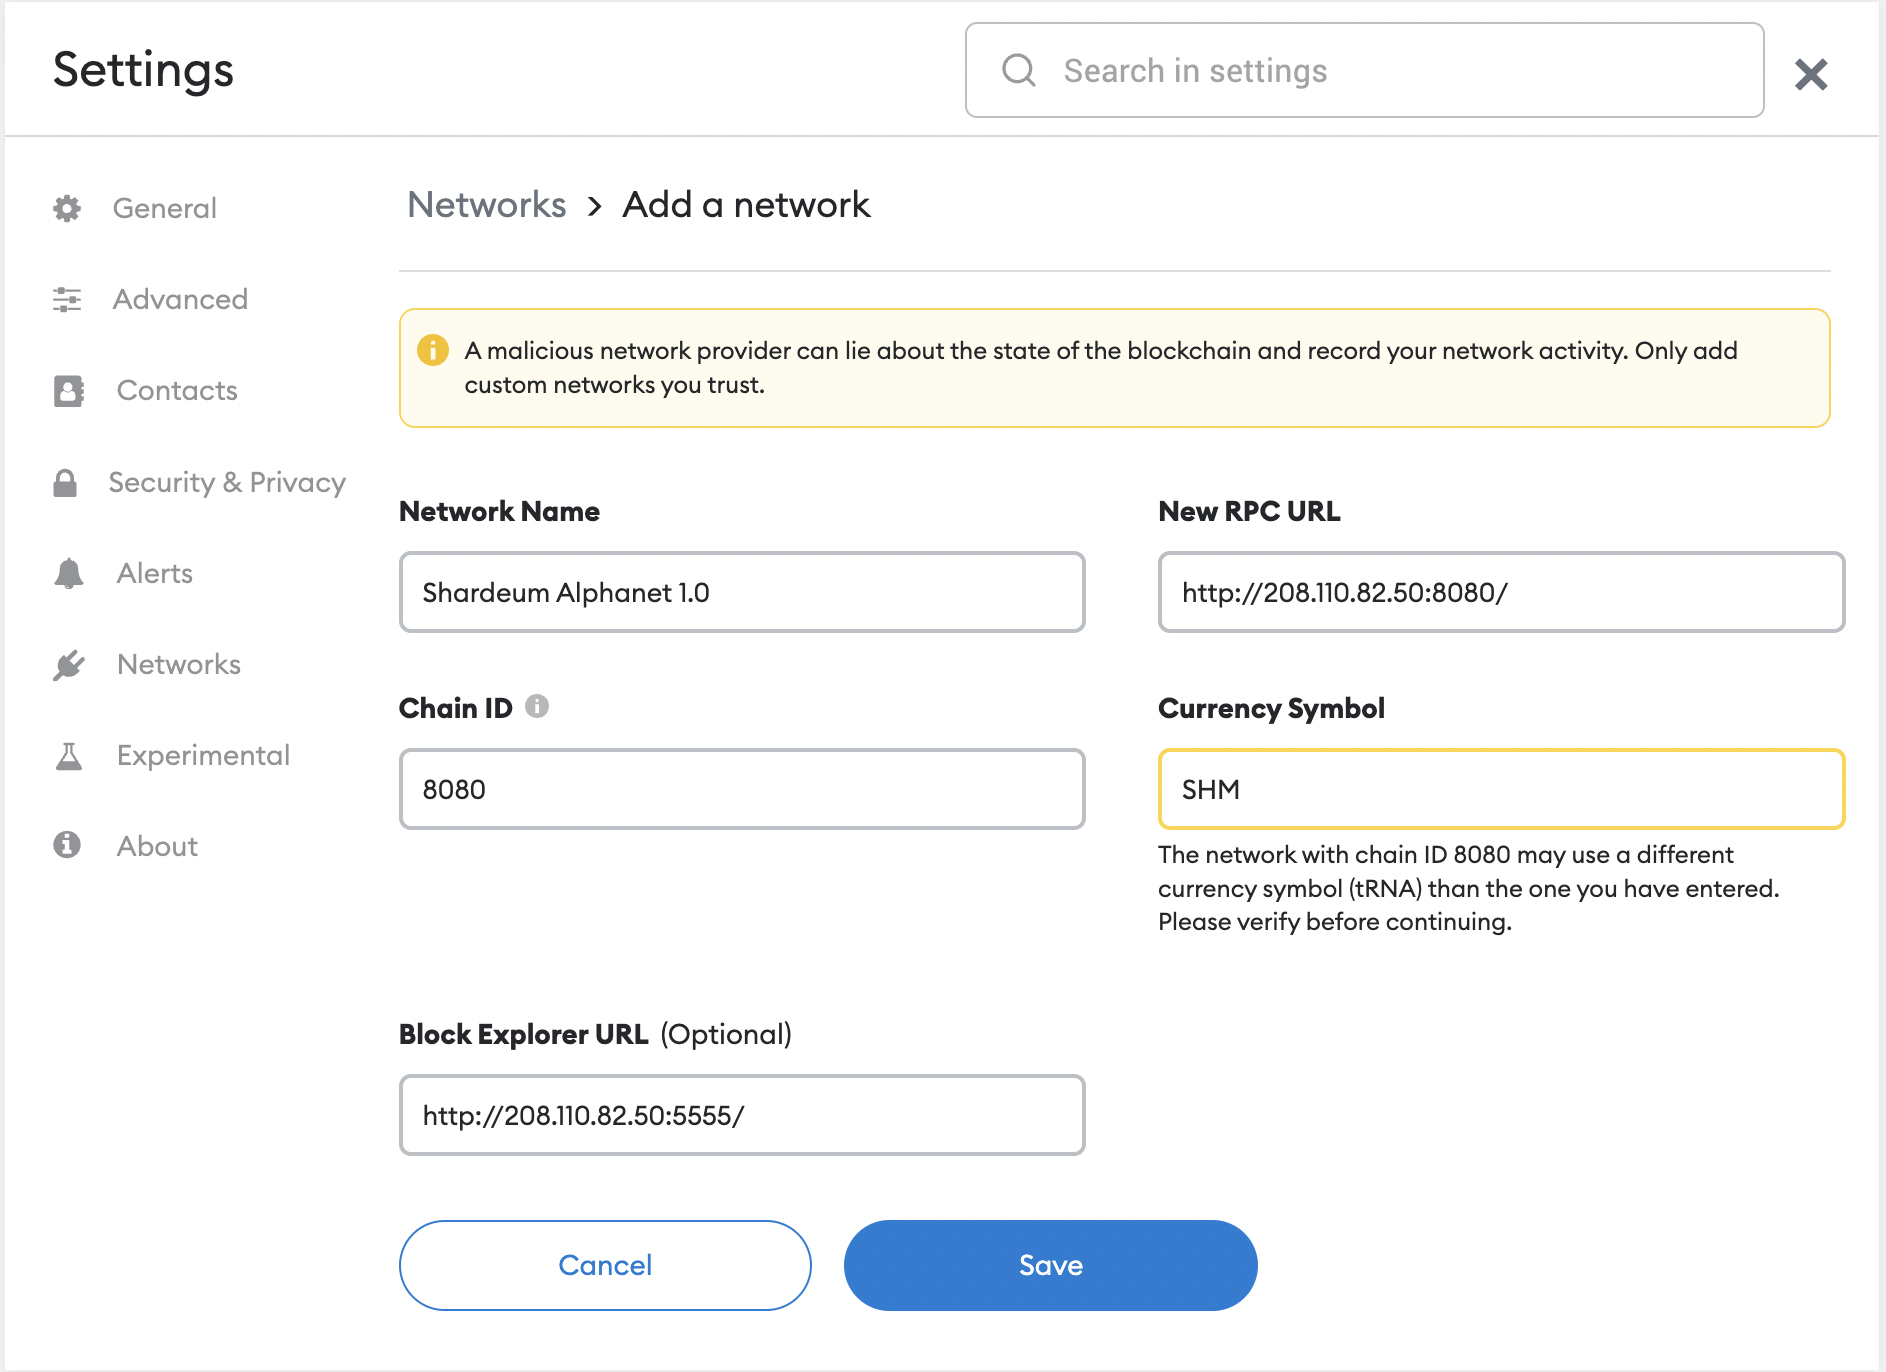
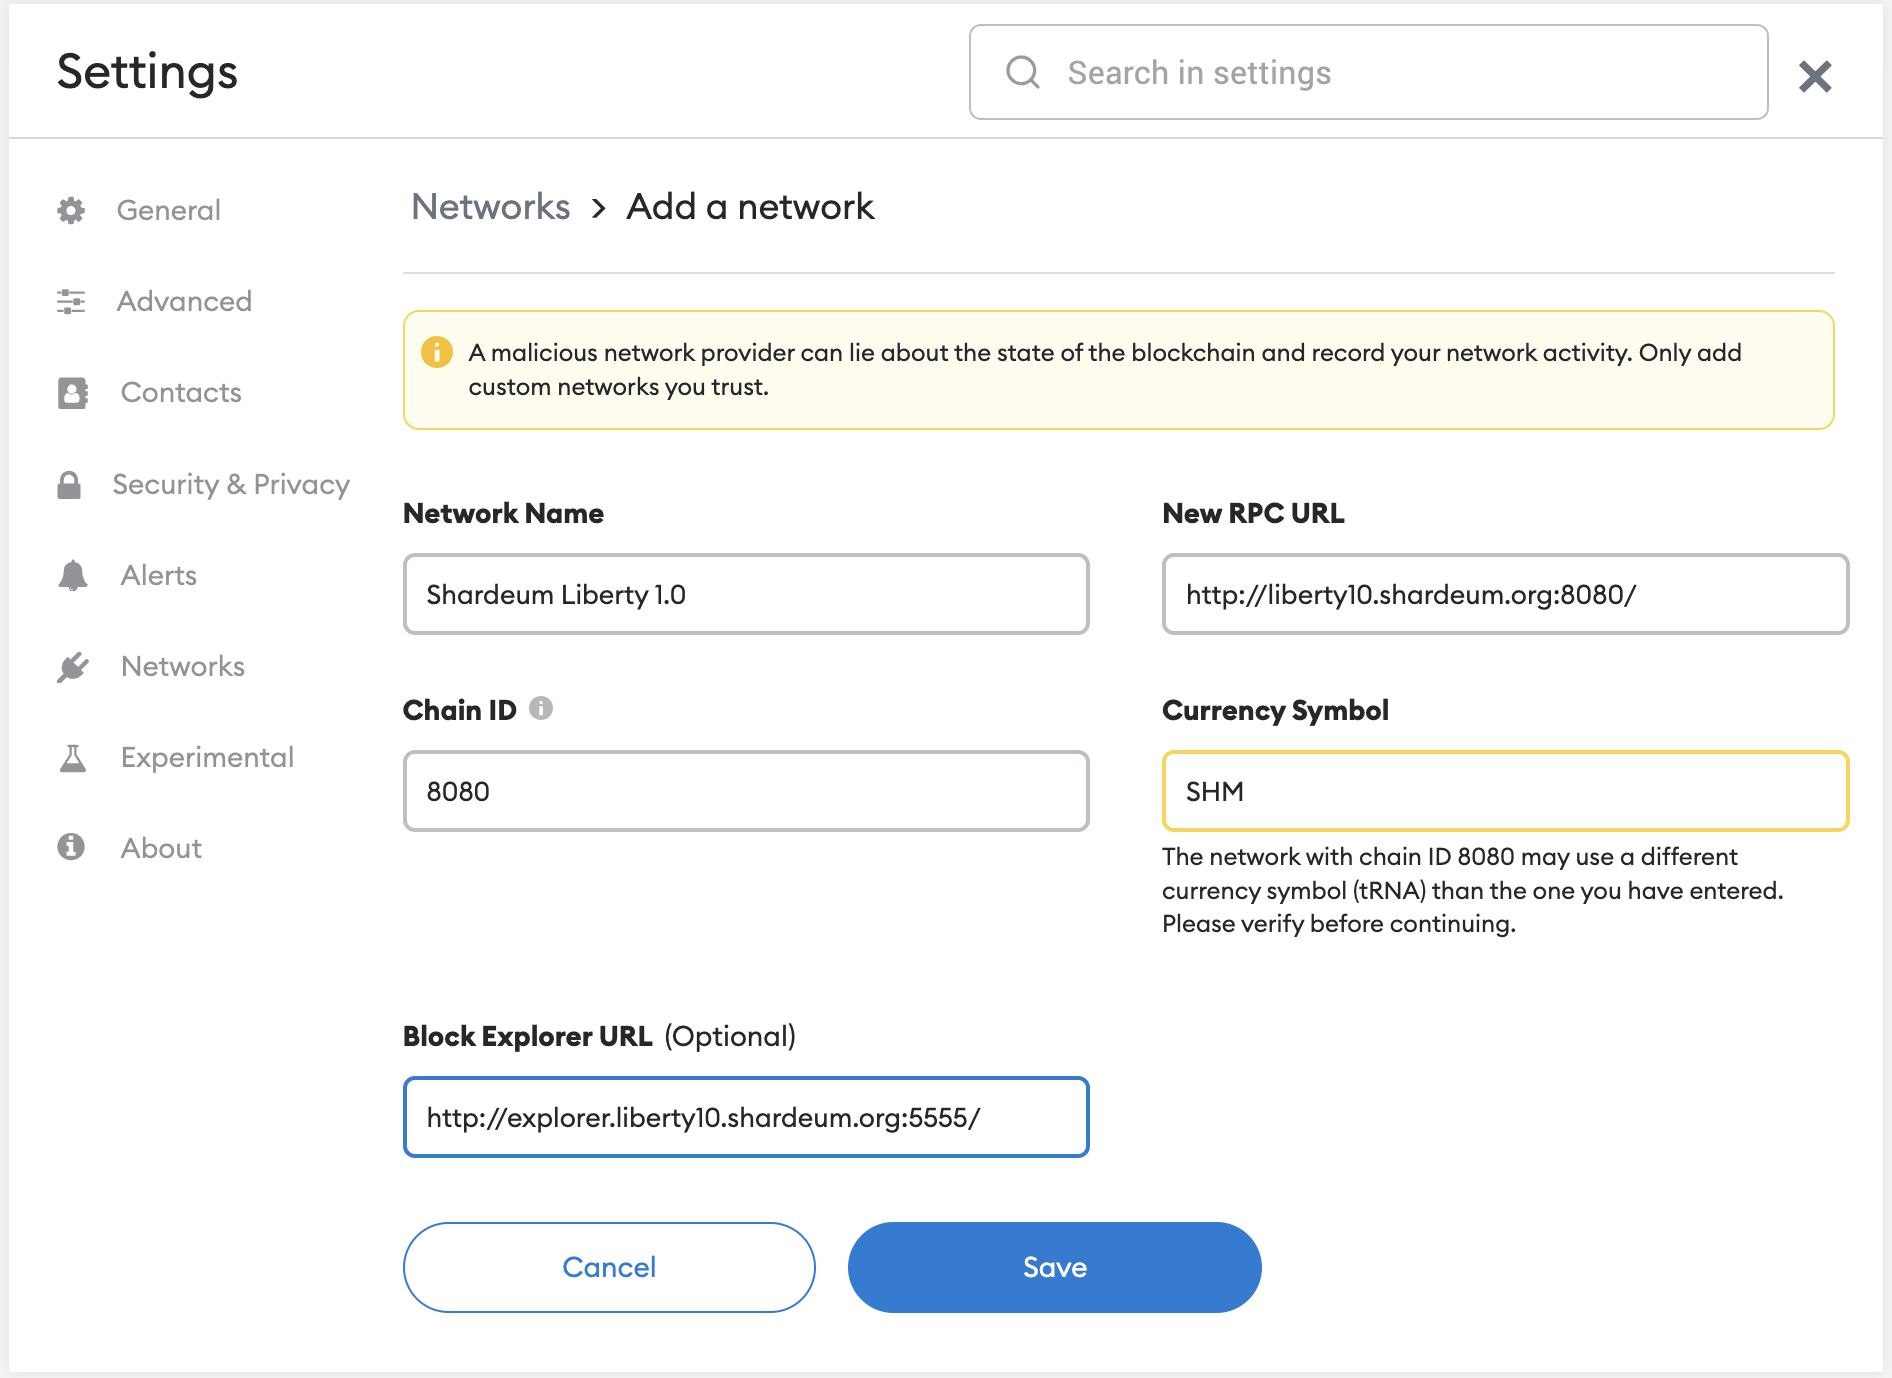
updating rpc links

diff --git a/docs/basics/Wallets/MetaMask/add-shardeum-network.md b/docs/basics/Wallets/MetaMask/add-shardeum-network.md
@@ -19,11 +19,11 @@ sidebar_position: 3
 
 | **Field**                         	| **Alphanet**               	| **Betanet** 	| **Mainnet** 	|
 |-----------------------------------	|----------------------------	|-------------	|-------------	|
-| **Network Name**                  	| Shardeum Alphanet          	|   Q3 2022   	|   Q4 2022   	|
-| **New RPC URL**                   	| TBA                       	|   Q3 2022   	|   Q4 2022   	|
-| **Chain ID**                      	| TBA                        	|   Q3 2022   	|   Q4 2022   	|
+| **Network Name**                  	| Shardeum Liberty 1.0      	|   Q3 2022   	|   Q4 2022   	|
+| **New RPC URL**                   	| http://liberty10.shardeum.org:8080/                       	|   Q3 2022   	|   Q4 2022   	|
+| **Chain ID**                      	| 8080                        	|   Q3 2022   	|   Q4 2022   	|
 | **Currency symbol (optional)**    	| SHM                       	|   Q3 2022   	|   Q4 2022   	|
-| **Block Explorer URL (optional)** 	| http://208.110.82.50:4444/ 	|   Q3 2022   	|   Q4 2022   	|
+| **Block Explorer URL (optional)** 	| http://explorer.liberty10.shardeum.org:5555/ 	|   Q3 2022   	|   Q4 2022   	|
 
 ## Save the Network
 

diff --git a/docs/basics/endpoints.md b/docs/basics/endpoints.md
@@ -7,8 +7,8 @@ sidebar_position: 2
 
 | **Field**                         	| **Alphanet**               	| **Betanet** 	| **Mainnet** 	|
 |-----------------------------------	|----------------------------	|-------------	|-------------	|
-| **Network Name**                  	| Shardeum Alphanet          	|   Q3 2022   	|   Q4 2022   	|
-| **New RPC URL**                   	| TBA                       	|   Q3 2022   	|   Q4 2022   	|
-| **Chain ID**                      	| TBA                        	|   Q3 2022   	|   Q4 2022   	|
+| **Network Name**                  	| Shardeum Liberty 1.0      	|   Q3 2022   	|   Q4 2022   	|
+| **New RPC URL**                   	| http://liberty10.shardeum.org:8080/                       	|   Q3 2022   	|   Q4 2022   	|
+| **Chain ID**                      	| 8080                        	|   Q3 2022   	|   Q4 2022   	|
 | **Currency symbol (optional)**    	| SHM                       	|   Q3 2022   	|   Q4 2022   	|
-| **Block Explorer URL (optional)** 	| http://208.110.82.50:4444/ 	|   Q3 2022   	|   Q4 2022   	|
+| **Block Explorer URL (optional)** 	| http://explorer.liberty10.shardeum.org:5555/ 	|   Q3 2022   	|   Q4 2022   	|

diff --git a/docs/community.md b/docs/community.md
@@ -13,11 +13,12 @@ So get started and be an early adopter of the network by joining Shardeum’s gl
 ## Website and Socials
 
 - 💻 Website: https://shardeum.org/
+- 📰 Newsletter https://shardeum.org/newsletter/
 - 📹 Youtube: https://www.youtube.com/channel/UCO20LJZBF-lYbc6PWVvwkMA
 - 🐦 Twitter : https://twitter.com/shardeum
-- 🗣 Discord : https://discord.com/invite/gx2SFZDDSM
-- ✉ Telegram : https://web.telegram.org/z/#-1582079528
-- ✍ Reddit : https://www.reddit.com/r/shardeum/
+- 🗣 Discord : https://discord.com/invite/gx2SFZDDSM
+- 📮 Telegram : https://web.telegram.org/z/#-1582079528
+- 📓 Reddit : https://www.reddit.com/r/shardeum/
 
 ## Global Discord Channels
 

diff --git a/docs/developer/deploying-to-shardeum/opcodes.md b/docs/developer/deploying-to-shardeum/opcodes.md
@@ -5,7 +5,7 @@ sidebar_position: 2
 
 # Alphanet 1.0 Opcodes
 
-Shardeum is EVM-based, this means most opcodes should function identically to other EVM-based networks. Alphanet 1.0 will not support any block related opcodes, this is because Shardeum is blockless. These opcodes will be re-mapped and become operational in Alphanet 1.1.
+Shardeum is EVM-based, this means most opcodes should function identically to other EVM-based networks. Shardeum Liberty 1.0 will not support any block related opcodes, this is because Shardeum is blockless. These opcodes will be re-mapped and become operational in Shardeum Liberty 1.1.
 
 ## Block Related Opcodes
 

diff --git a/docs/basics/explorer.md b/docs/basics/explorer.md
@@ -5,6 +5,6 @@ sidebar_position: 4
 
 # Explorer
 
-**Alphanet:** http://208.110.82.50:5555/
+**Shardeum Liberty 1.0:** http://explorer.liberty10.shardeum.org:5555/
 
 ![explorer_1](/img/explorer/explorer.png)

diff --git a/docs/basics/faucet.md b/docs/basics/faucet.md
@@ -5,6 +5,6 @@ sidebar_position: 3
 
 # Faucet
 
-**Alphanet:** http://69.30.233.142:3000/
+**Shardeum Liberty 1.0:** http://faucet.liberty10.shardeum.org:3000/
 
 ![faucet_1](/img/faucet/faucet.png)
